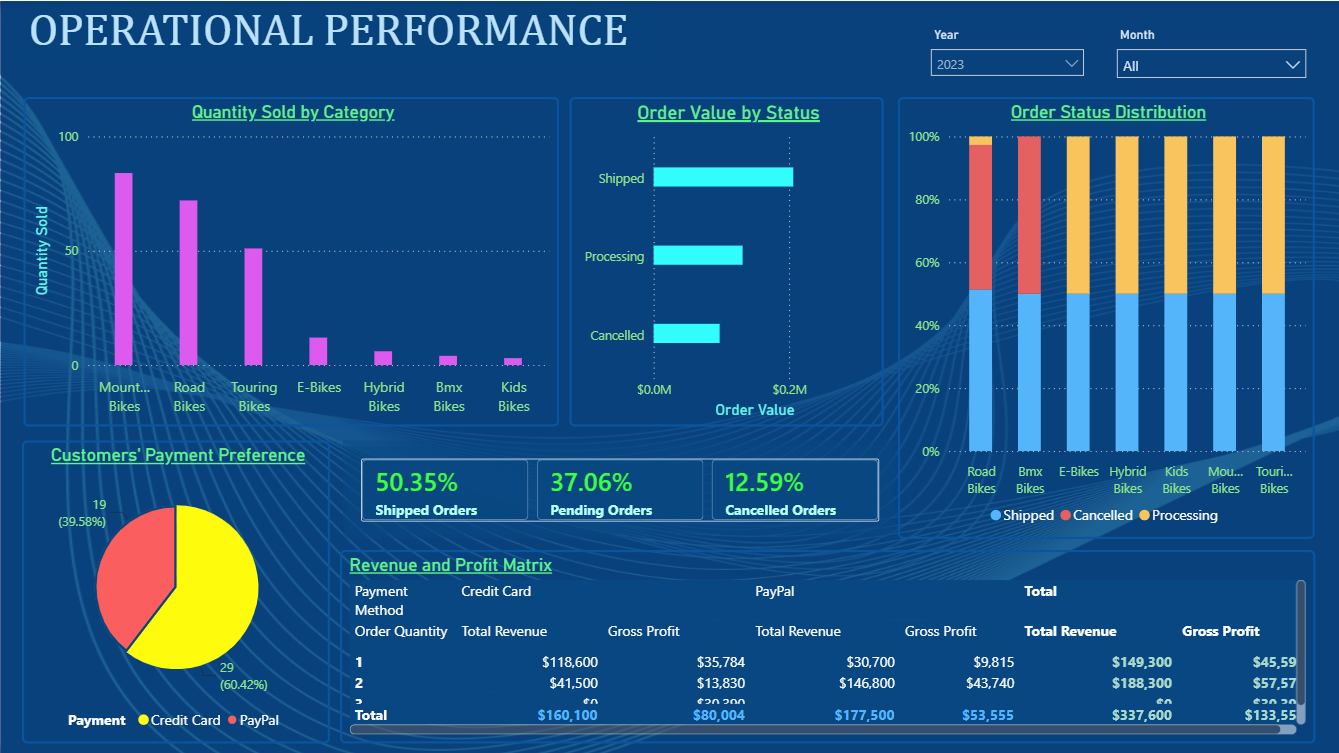
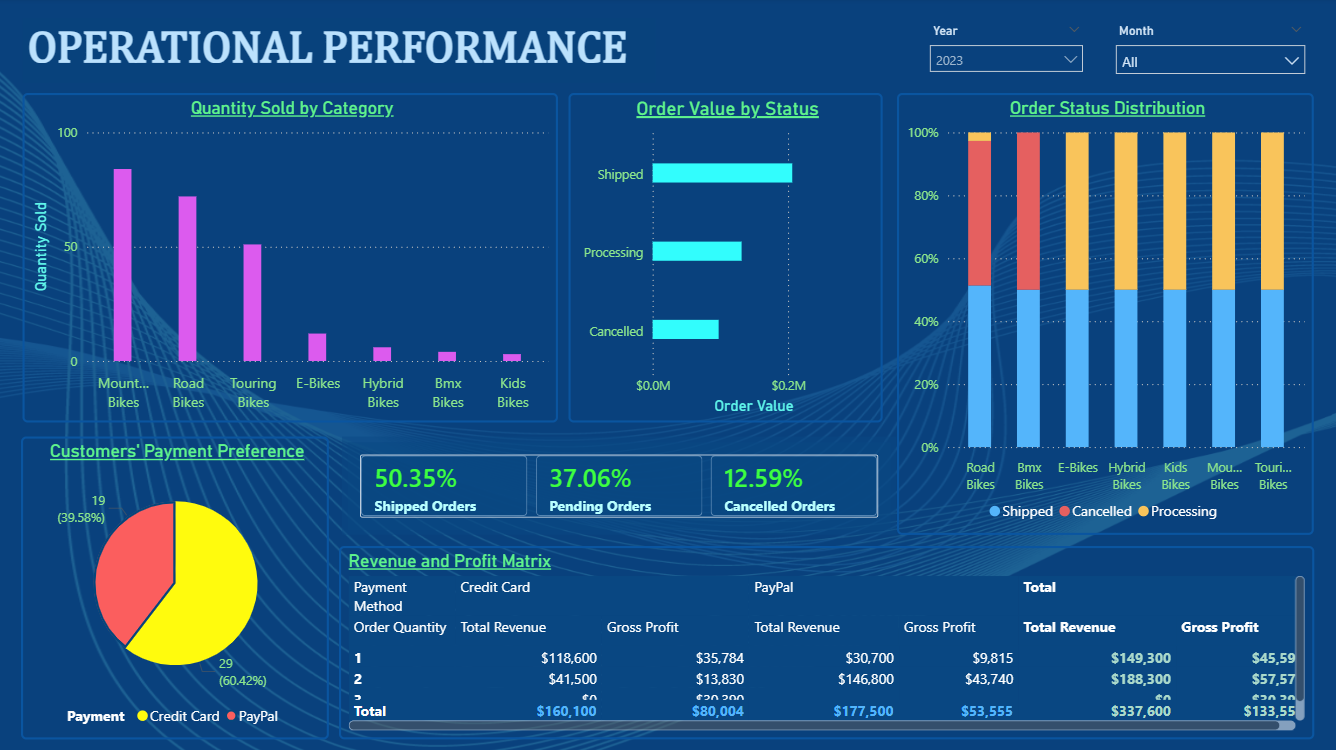
Updated README.md

diff --git a/README.md b/README.md
@@ -4,7 +4,7 @@ Dashboard
 </h1>
 
 <p align = "center">
-<img src = "08_Images/Cover/Project_Cover.png" width = "1000" height = "350">
+<img src = "08_Images/Cover/Project_Cover.png" width = "1000" height = "300">
 </p>
 
 # Repository Structure
@@ -53,7 +53,9 @@ Dashboard
 
 # Background
 
-In the quest to understand Q1 sales performance and trends, Starter Bike LLC, a fictional bicycle retailer, is looking to obtain insights from its Q1 operations over the past years. Company executives believe that data from the 2022 and 2023 Q1 sales can provide some critical insights into how the company performs during the first quarter of each financial year. They believe that, with proper analytics, the company can efficiently track essential performance indicators, including, but not limited to, product performance, profitability, tax liabilities, and operational efficiency, which can then inspire the company to optimize sales operations and improve revenue generation. 
+Starter Bike LLC, a fictional bicycle retailer, is looking to obtain insights from its Q1 operations over the past years. Company executives believe that data from the 2022 and 2023 Q1 sales can provide some critical insights into how the company performs during the first quarter of each financial year. 
+
+They believe that, with proper analytics, the company can efficiently track essential performance indicators, including, but not limited to, product performance, profitability, tax liabilities, and operational efficiency, which can then inspire the company to optimize sales operations and improve revenue generation. 
 
 The 2022 and 2023 Q1 sales operation data has been successfully consolidated and readily available. However, despite having operational data readily available, the management still lacks a centralized reporting solution that transforms this raw information into meaningful business insights.
 
@@ -64,10 +66,6 @@ The executives forsee that as the business is destined to scale, manual reportin
 ## Project Objective
 
 This project aims to transform the company's transactional sales data into an interactive Business Intelligence solution using Microsoft Power BI.
-
-
-
-Below is the structure proposed as ideal for representing the data analysis process, from transforming the raw data to developing the final dashboard. This is an equivalent of the structure that the project reports are stored in github repository for reproducibility.
 
 
 # Business Problem
@@ -88,7 +86,7 @@ Without these insights, company executives believe there is a relatively substan
 
 # Project Goal
 
-As the assigned analyst, the goal of this project is to design and develop an interactive Power BI dashboard that can enable Starter Bike LLC executives to monitor sales performance, product performance, operational efficiency, and tax obligations to support evidence-based business decision-making.
+This project is designed to provide an interactive Power BI dashboard that can enable Starter Bike LLC executives to monitor sales performance, product performance, operational efficiency, and tax obligations to support evidence-based business decision-making.
 
 The dashboard is, therefore, intended to enable management to monitor:
 
@@ -136,9 +134,23 @@ Page 1: Executive Overview
 
 ### Key Findings:
 
-    The number of bikes sold,   Total revenue,    Gross profit,    Tax liability,    
-    Total revenue by month, Quantity sold by order status,      Change in order volume, 
-    Total revenue by payment method,  Total revenue by product category.
+- In the first quarter of 2023, Sarter Bike LLC sold a total of 178 bikes, earning a total of $337,600 in revenue and $133,560 in gross profit.
+
+    - The business realized a significant increase in revenue between February and March with January - February reporting a drop in revenue generated.
+
+    - Q1 of 2023 resulted in $13,915 in tax liability
+
+- By category, mountain bikes drive the majority of financial value for the business, followed closely by touring bikes and road bikes respectively    
+
+    - Mountain bikes contributed up to $164,800 in revenue generated in Q1 of 2023
+
+    - Touring bikes came a distant second, contributing $84,000 in revenue, and
+
+    - Road bikes accounted for $46,000 in revenue, 
+
+- March saw an increae in shipped products, after relatively realizing no change in shipped products between January and February.
+
+- The rate of cancelled orders increased steadily between January and March.
 ---------------------------------------------------------------------------------------------
 
 <h2 align = "center"> 
@@ -150,11 +162,21 @@ Page 2: Product Performance
 </p>
 
 ### Key Findings:
+- Mountain bikes, Turing bikes, Road bikes, E-bikes and Hybrid bikes constituted the top 5 performing categories in Q1 of 2023.
 
-    Revenue generated by product category, 
-    Revenue generated by subcategory,
-    Order quantity by category,
-    Profitability by category
+    - Mountain bikes accounted for $164,200 in revenue.
+
+    - Touring bikes accounted for $84,800 in revenue
+
+    - Road bikes accounted for $46,500 in revenue
+
+    - E-bikes contributed $33,200 in revenue, and
+
+    - Hybrid bikes contributed $7,800 in revenue 
+
+- By subcategory, the Downhill brand contributed most toward the revenue generated, contributing up to$49,400 in revenue generated in Q1 of 2023.
+
+- As expected, Mountain bikes were the most sought after type of bike, aking it the most profitable for the business, generating $28,397 in gross profits in that period. 
 ---------------------------------------------------------------------------------------------
 
 <h2 align = "center"> 
@@ -166,11 +188,9 @@ Page 3: Operational Performance
 </p>
 
 ### Key Findings:
+- Customers paid for most of their orders using credit cards, accounting for more than 60% of payments made.
 
-    Quantity of bikes sold by category,
-    Order Value for all three order status,
-    Distribution of order status,
-    Customers' payment preference,
+- Performance-wise, orders for Road bikes were cancelled more than any other category, with up to 49% of placed orders ending up being cancelled.
 -----------------------------------------------------------------------------------------------
 
 <h2 align = "center"> 
@@ -182,9 +202,9 @@ Page 4: Tax_Obligation
 </p>
 
 ### Key Findings:
+- In 2023, 39 orders were taxable as per the tax obligation rule afforded the business.
 
-    Taxable products, Taxable sale, Tax due, Net Revenue,
-    Tax due by moth, Tax due by product category,
-    Tax due as a proportion of revenue generated
+- The 39 taxable products translated in 70.9% of taxable sales made in Q1 of 2023, leading to a total of $7,755 in tax due
 
+- Starter Bike LLC's tax proportion relative to revenue generated in 2023 dropped by 0.23%, ending in 4.25% by March.
 -----------------------------------------------------------------------------------------
